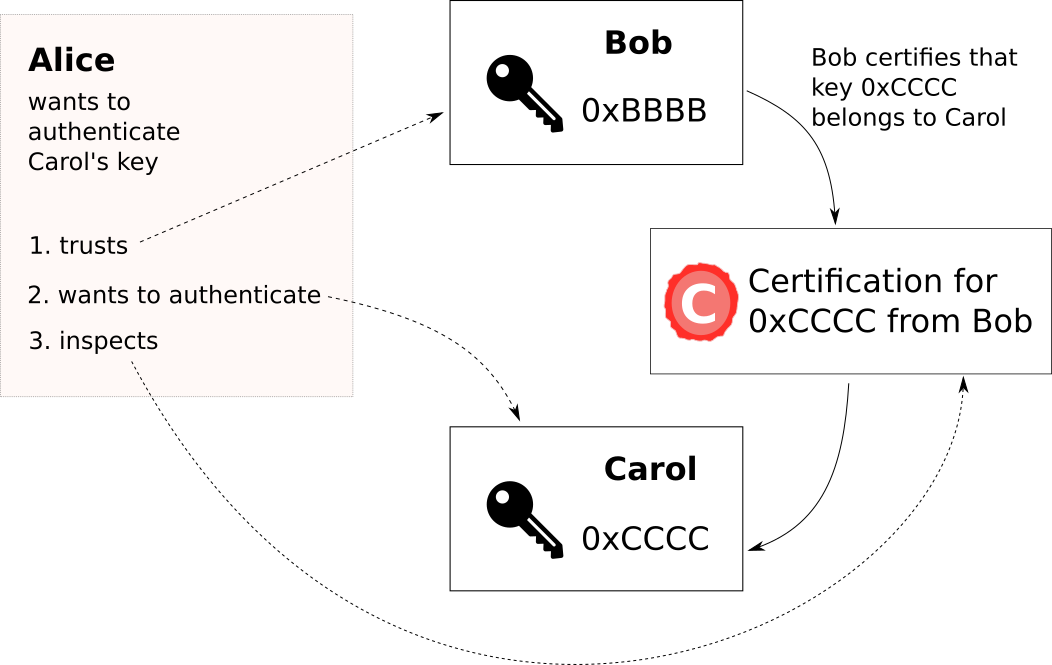
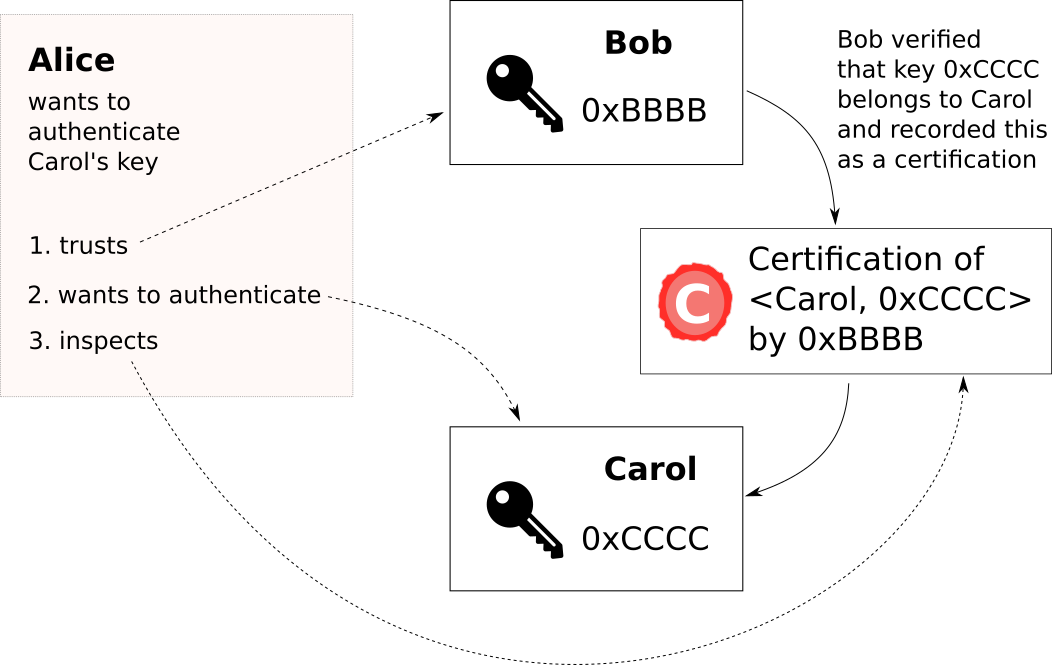
some edits for doc chapter 2

diff --git a/doc/src/details.md b/doc/src/details.md
@@ -23,20 +23,26 @@ included when distributing OpenPGP keys.
 
 ## Regular certifications
 
-A certification is a record that indicates what key an entity allegedly
-controls.  When Bob certified that Carol's key is `0xCCCC`, he can create
-a certification that records that fact.  The certification is first
-useful to him: all of his software now understands that he has verified
-Carol's key.  If he publishes the certification, e.g., on a key server,
-it can also be useful to others.
-
 Say that Alice wants to communicate with Carol, but she hasn't authenticated
-Carol's key.  If she has access to Bob's certification she has evidence that
-`0xCCCC` is the right key for Carol.  Of course, Carol should only trust Bob's
-certification as much as she trusts Bob to correctly certify Alice's
-key.
+Carol's key.
+
+A certification is a record that indicates what key an entity allegedly
+controls.  When Bob certifies that Carol's key is `0xCCCC`, he can create
+a certification that records that fact. This certification binds an
+identity ("Carol", in our example; in practice, OpenPGP certifications
+often use email addresses as identities) with a key ("0xCCCC", here), 
+
+This certification is first useful to Bob: his software now
+understands that he has verified Carol's key.  If he publishes the
+certification, e.g., on a key server, it can also be useful to others.
+
+For example, if Alice has access to Bob's certification, she has evidence that
+`0xCCCC` is the right key for Carol:
 
 ![Image](certification.png "Bob certified Carol's Key")
+
+Of course, Carol should only trust Bob's certification as much as she
+trusts Bob to correctly certify Alice's key.
 
 ## Trust signatures
 
